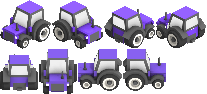
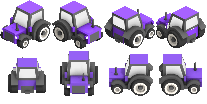
Gatherer asset fixed
Asset is now centered on the tile when pathing up/down, left7right

diff --git a/Source/Motor2D/Scout.cpp b/Source/Motor2D/Scout.cpp
@@ -195,16 +195,62 @@ void Scout::AttachHealthbarToEntity()
 
 void Scout::InitUnitSpriteSections()
 {
-	entity_sprite_section = { 58, 0, 58, 47 };						//Down Right
+	//entity_sprite_section = { 58, 0, 58, 47 };						//Down Right
 
-	pathing_up_section = { 0, 47, 70, 52 };
-	pathing_down_section = { 71, 47, 70, 52 };
-	pathing_rigth_section = { 202, 47, 59, 52 };
-	pathing_left_section = { 142, 47, 59, 52 };
-	pathing_up_right_section = { 116, 0, 60, 47 };
-	pathing_up_left_section = { 176, 0, 59, 47 };
-	pathing_down_right_section = { 58, 0, 58, 47 };
-	pathing_down_left_section = { 0, 0, 58, 47 };
+	//pathing_up_section = { 0, 47, 70, 52 };
+	//pathing_down_section = { 71, 47, 70, 52 };
+	//pathing_rigth_section = { 202, 47, 59, 52 };
+	//pathing_left_section = { 142, 47, 59, 52 };
+	//pathing_up_right_section = { 116, 0, 60, 47 };
+	//pathing_up_left_section = { 176, 0, 59, 47 };
+	//pathing_down_right_section = { 58, 0, 58, 47 };
+	//pathing_down_left_section = { 0, 0, 58, 47 };
+
+	//	 --- LOADING FROM XML ---
+	pugi::xml_node sections = App->entities_file.child("entities").child("units").child("allies").child("scout").child("sprite_sections");
+
+	pathing_up_section.x = sections.child("pathing_up").attribute("x").as_int();
+	pathing_up_section.y = sections.child("pathing_up").attribute("y").as_int();
+	pathing_up_section.w = sections.child("pathing_up").attribute("w").as_int();
+	pathing_up_section.h = sections.child("pathing_up").attribute("h").as_int();
+
+	pathing_down_section.x = sections.child("pathing_down").attribute("x").as_int();
+	pathing_down_section.y = sections.child("pathing_down").attribute("y").as_int();
+	pathing_down_section.w = sections.child("pathing_down").attribute("w").as_int();
+	pathing_down_section.h = sections.child("pathing_down").attribute("h").as_int();
+
+	pathing_rigth_section.x = sections.child("pathing_right").attribute("x").as_int();
+	pathing_rigth_section.y = sections.child("pathing_right").attribute("y").as_int();
+	pathing_rigth_section.w = sections.child("pathing_right").attribute("w").as_int();
+	pathing_rigth_section.h = sections.child("pathing_right").attribute("h").as_int();
+
+	pathing_left_section.x = sections.child("pathing_left").attribute("x").as_int();
+	pathing_left_section.y = sections.child("pathing_left").attribute("y").as_int();
+	pathing_left_section.w = sections.child("pathing_left").attribute("w").as_int();
+	pathing_left_section.h = sections.child("pathing_left").attribute("h").as_int();
+
+	pathing_up_right_section.x = sections.child("pathing_up_right").attribute("x").as_int();
+	pathing_up_right_section.y = sections.child("pathing_up_right").attribute("y").as_int();
+	pathing_up_right_section.w = sections.child("pathing_up_right").attribute("w").as_int();
+	pathing_up_right_section.h = sections.child("pathing_up_right").attribute("h").as_int();
+
+	pathing_up_left_section.x = sections.child("pathing_up_left").attribute("x").as_int();
+	pathing_up_left_section.y = sections.child("pathing_up_left").attribute("y").as_int();
+	pathing_up_left_section.w = sections.child("pathing_up_left").attribute("w").as_int();
+	pathing_up_left_section.h = sections.child("pathing_up_left").attribute("h").as_int();
+
+	pathing_down_right_section.x = sections.child("pathing_down_right").attribute("x").as_int();
+	pathing_down_right_section.y = sections.child("pathing_down_right").attribute("y").as_int();
+	pathing_down_right_section.w = sections.child("pathing_down_right").attribute("w").as_int();
+	pathing_down_right_section.h = sections.child("pathing_down_right").attribute("h").as_int();
+
+	pathing_down_left_section.x = sections.child("pathing_down_left").attribute("x").as_int();
+	pathing_down_left_section.y = sections.child("pathing_down_left").attribute("y").as_int();
+	pathing_down_left_section.w = sections.child("pathing_down_left").attribute("w").as_int();
+	pathing_down_left_section.h = sections.child("pathing_down_left").attribute("h").as_int();
+
+	//Default section
+	entity_sprite_section = pathing_down_right_section;
 }
 
 void Scout::UpdateUnitSpriteSection()

diff --git a/Source/Motor2D/Gatherer.cpp b/Source/Motor2D/Gatherer.cpp
@@ -336,13 +336,14 @@ void Gatherer::AttachHealthbarToEntity()
 
 void Gatherer::InitUnitSpriteSections()
 {	
-	pathing_up_section			= { 0, 49, 39, 42 };
+	/*
+	pathing_up_section			= { 0, 49, 52, 45 };
 
-	pathing_down_section		= { 39, 49, 38, 45 };
+	pathing_down_section		= { 52, 49, 52, 45 };
 
-	pathing_rigth_section		= { 123, 49, 43, 42 };
+	pathing_rigth_section		= { 156, 49, 52, 53 };
 
-	pathing_left_section		= { 78, 49, 43, 42 };
+	pathing_left_section		= { 104, 49, 52, 53 };
 
 	pathing_up_right_section	= { 104, 0, 52, 49 };
 
@@ -350,14 +351,14 @@ void Gatherer::InitUnitSpriteSections()
 
 	pathing_down_right_section	= { 52, 0, 52 ,49 };
 
-	pathing_down_left_section	= { 0, 0, 52, 49 };
+	pathing_down_left_section	= { 0, 0, 52, 49 };*/
 
-	entity_sprite_section		= pathing_down_right_section;
+	
 
-	// --- LOADING FROM XML ---
-	//pugi::xml_node sections = App->entities_file.child("entities").child("units").child("allies").child("gatherer").child("sprite_sections");
+//	 --- LOADING FROM XML ---
+	pugi::xml_node sections = App->entities_file.child("entities").child("units").child("allies").child("gatherer").child("sprite_sections");
 
-	/*pathing_up_section.x = sections.child("pathing_up").attribute("x").as_int();
+	pathing_up_section.x = sections.child("pathing_up").attribute("x").as_int();
 	pathing_up_section.y = sections.child("pathing_up").attribute("y").as_int();
 	pathing_up_section.w = sections.child("pathing_up").attribute("w").as_int(); 
 	pathing_up_section.h = sections.child("pathing_up").attribute("h").as_int();
@@ -395,7 +396,10 @@ void Gatherer::InitUnitSpriteSections()
 	pathing_down_left_section.x = sections.child("pathing_down_left").attribute("x").as_int();
 	pathing_down_left_section.y = sections.child("pathing_down_left").attribute("y").as_int();
 	pathing_down_left_section.w = sections.child("pathing_down_left").attribute("w").as_int();
-	pathing_down_left_section.h = sections.child("pathing_down_left").attribute("h").as_int();*/
+	pathing_down_left_section.h = sections.child("pathing_down_left").attribute("h").as_int();
+
+	//Default section
+	entity_sprite_section = pathing_down_right_section;
 }
 
 void Gatherer::OnCollision(Collider* C1, Collider* C2)
